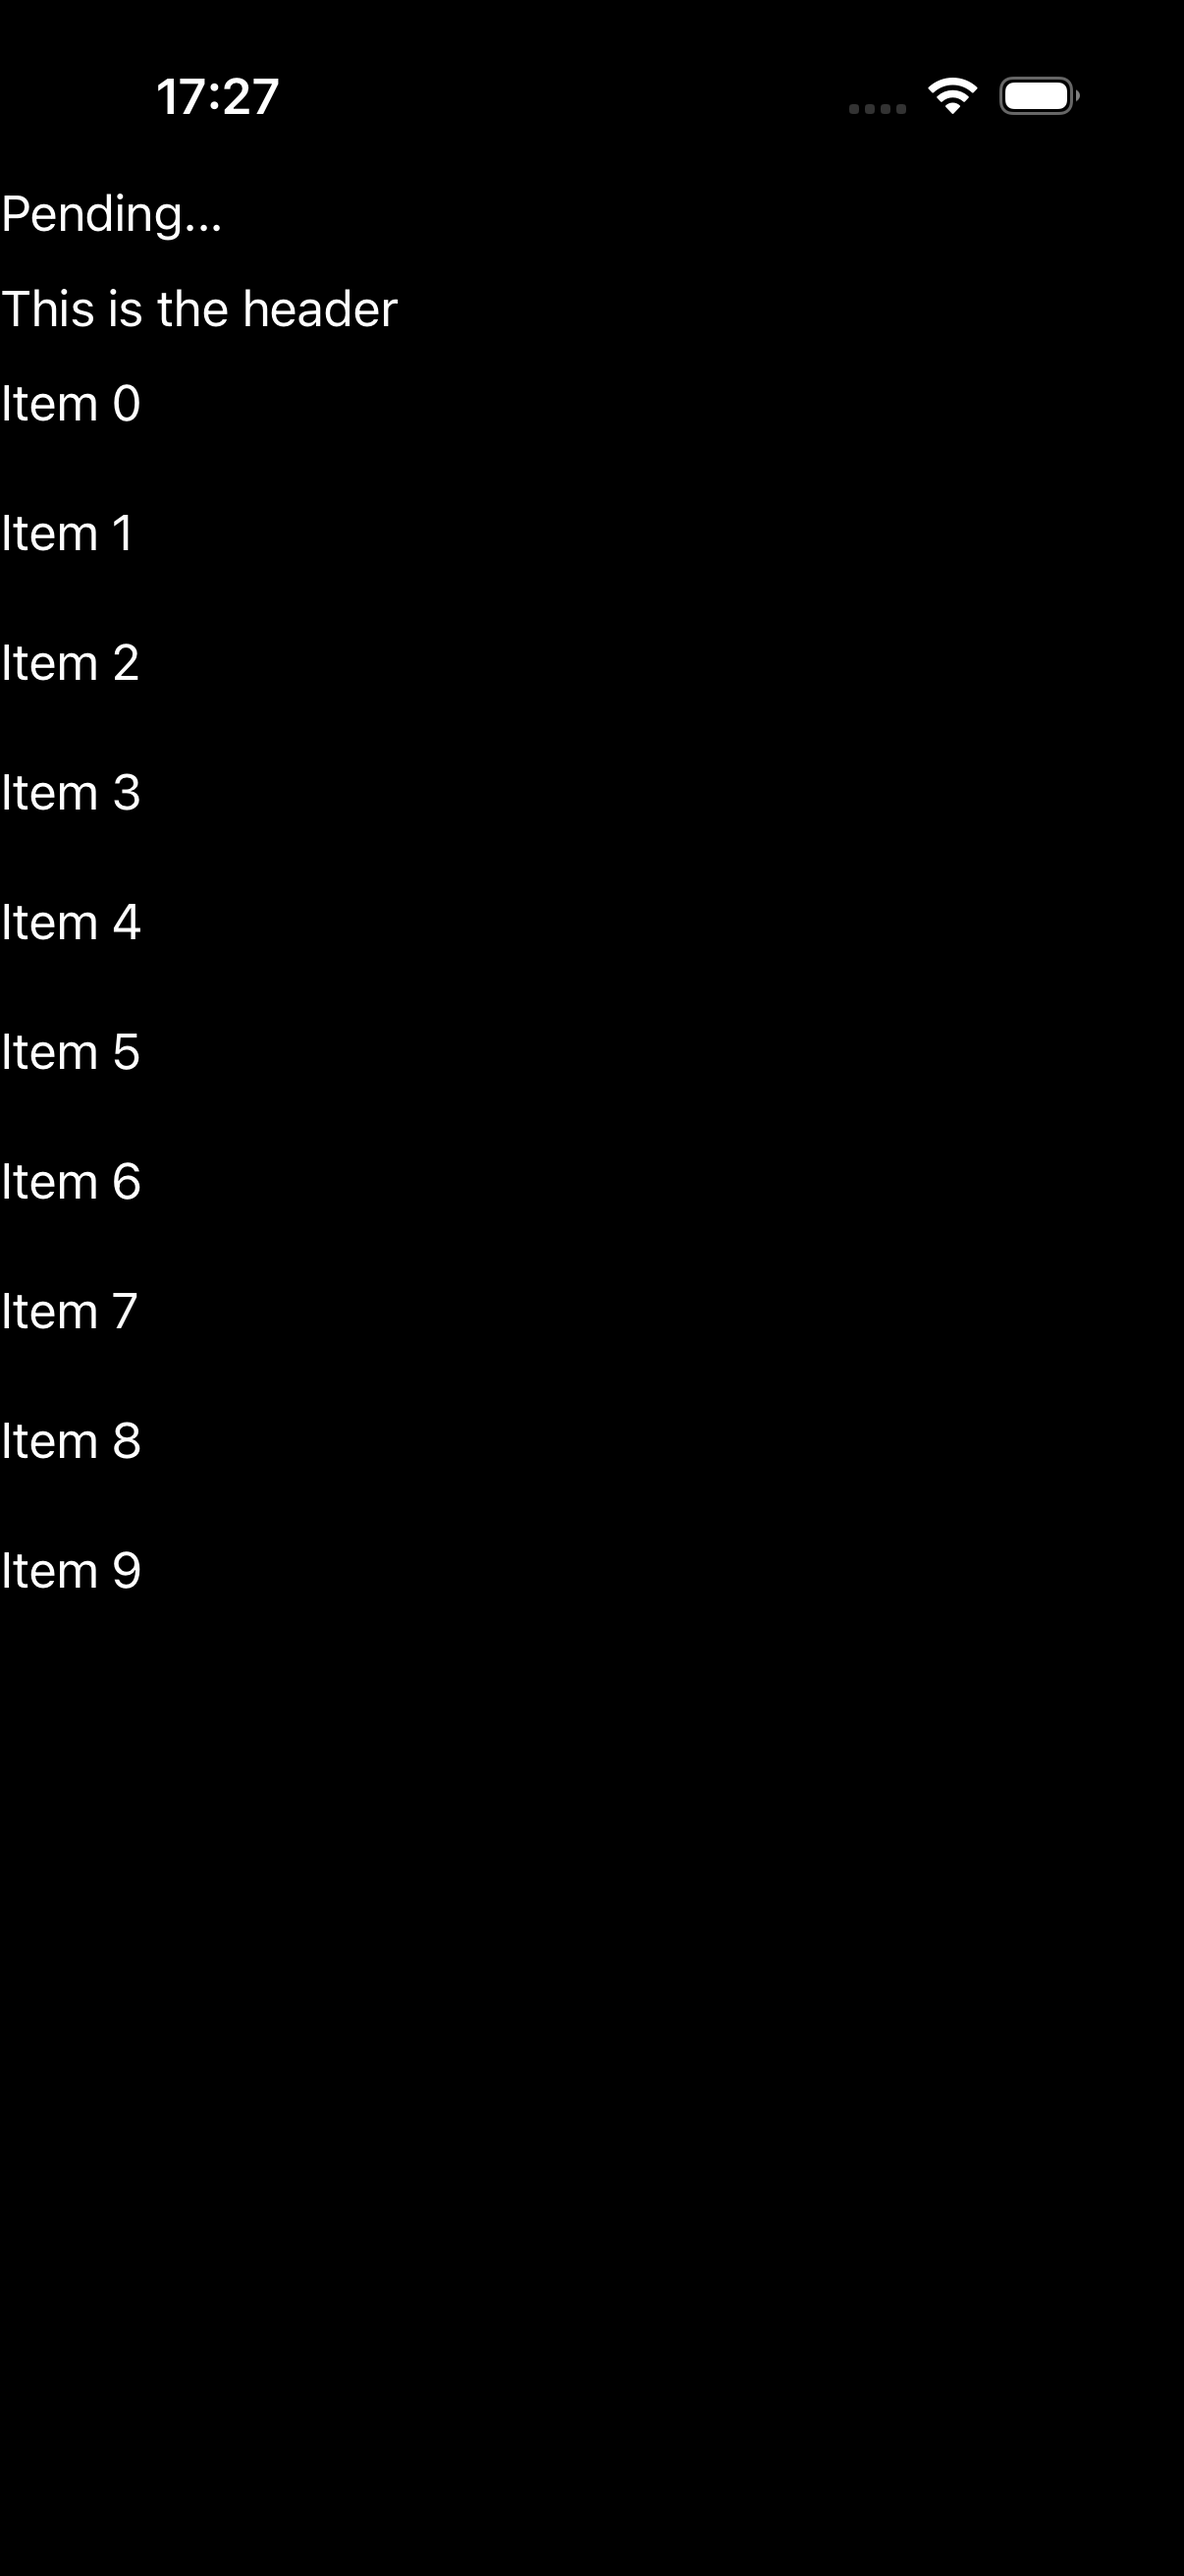
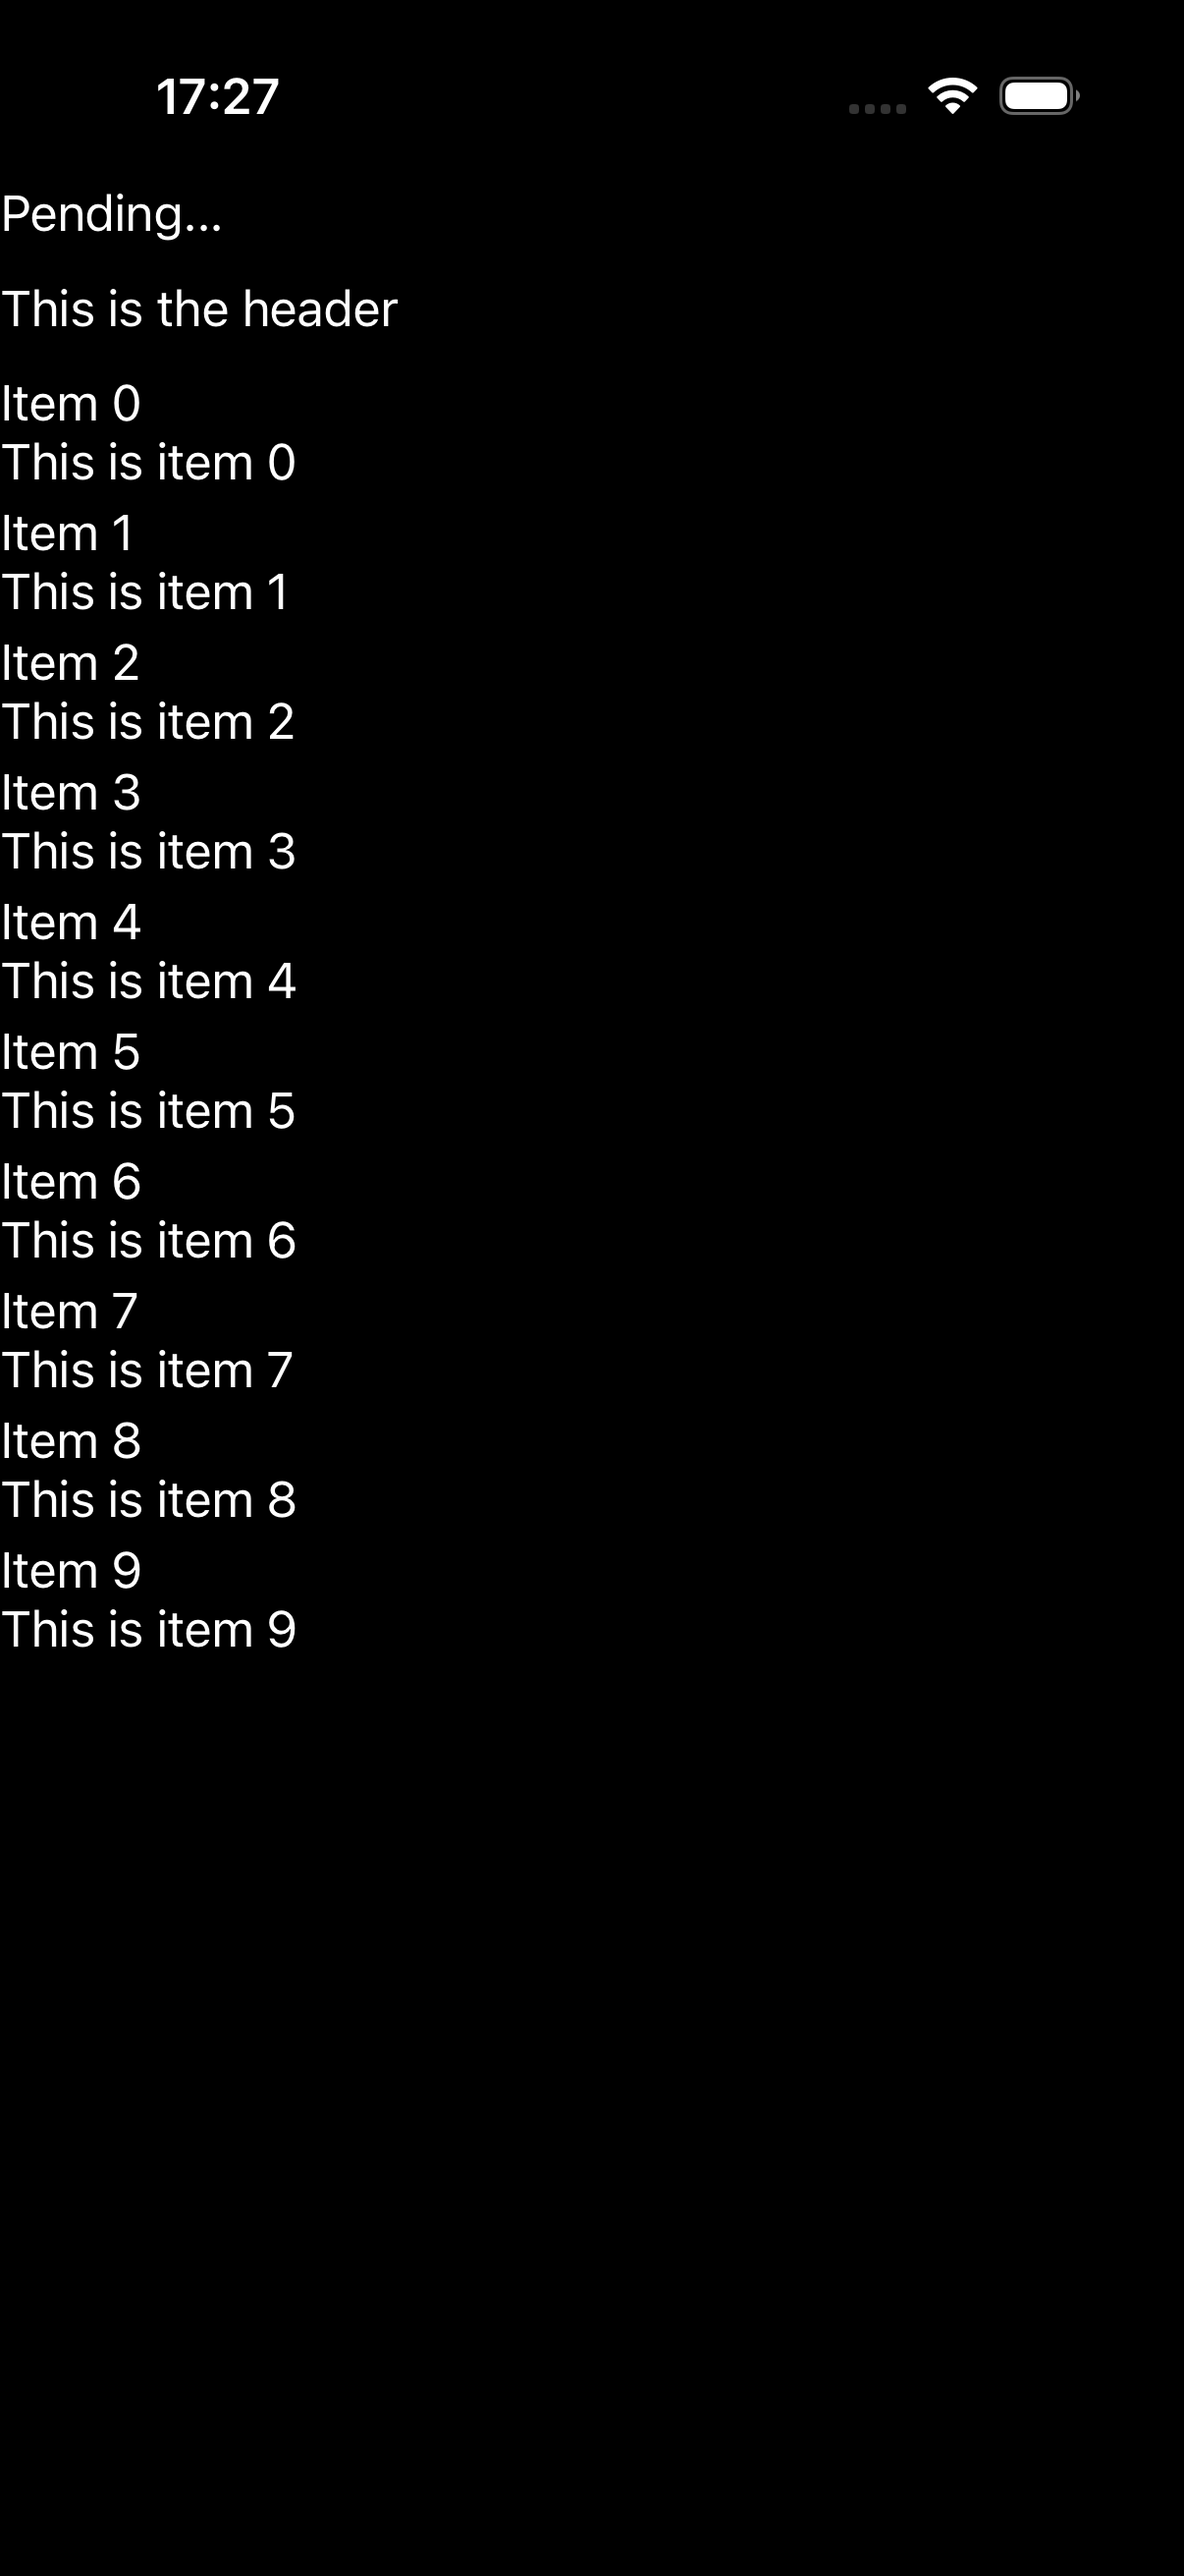
fix(samples,parity): selection_command_param two-line cells (Item N + 'This is item N')
The C# DataTemplate has two labels (Text + Description); the single-root struct cell now binds both on two
lines so the cell visually matches MAUI's title+detail layout (was title-only). Force-rebuilt + on-sim verified.
Tracker: selection_command_param diff->minor.

diff --git a/port/cpp/src/samples/pages/selection_command_param_page.hpp b/port/cpp/src/samples/pages/selection_command_param_page.hpp
@@ -77,11 +77,13 @@ namespace maui::samples
 
             result_.set_text("Pending..."); // Label x:Name="Result" Text="Pending..."
 
-            // The cell: Text + Description labels (the C# DataTemplate's two labels). The headless cell is
-            // a single Text label (the primary bound signal); Description rides on the model.
+            // The cell: the C# DataTemplate has two labels (Text + Description). The single-root struct cell
+            // renders both on two lines in one label ("Item N\nThis is item N") so the cell visually matches
+            // MAUI's two-line cell (title + detail).
             auto cell = maui::controls::data_template::of<maui::controls::label>();
-            cell->set_binding<std::string, item>(maui::controls::label::text_property(),
-                                                 [](const item& value) { return value.text; });
+            cell->set_binding<std::string, item>(maui::controls::label::text_property(), [](const item& value) {
+                return value.text + "\n" + value.description;
+            });
             list_.set_item_template(cell);
             list_.set_header(maui::controls::boxed_item::of(std::string{"This is the header"})); // Header=…
             list_.set_selection_mode(maui::controls::selection_mode::single);                    // Single

diff --git a/port/cpp/docs/comparison/README.md b/port/cpp/docs/comparison/README.md
@@ -2,7 +2,7 @@
 
 Theme-matched iOS comparison: each page rendered by **real .NET MAUI** vs the **C++ port**, on the same iPhone 17 simulator, compared **light-vs-light** and **dark-vs-dark**. Both stacks render native-default controls + the system font (the C# app's `dotnet new maui` default `Styles.xaml` + OpenSans are stripped; appearance forced via `MAUI_THEME` / `MAUI_APPEARANCE`). Goal: pixel-perfect parity, fixed example-by-example.
 
-**Progress: 48 / 172 🟢 matched** · 90 🟡 minor · 34 🔴 diff · 0 ⬜ pending
+**Progress: 48 / 172 🟢 matched** · 91 🟡 minor · 33 🔴 diff · 0 ⬜ pending
 
 **Flags: 7 ⚠ broken MAUI reference captures (re-shoot needed) · 14 🎬 motion/effect pages needing an animated GIF to judge.**
 
@@ -92,7 +92,7 @@ Rows are in **fix order** (top → bottom): foundational single controls first (
 | 76 | Multiple Bound Selection | 🟡<br>L:minor<br>D:minor | ![](csharp_ios_light/multiple_bound_selection.png) | ![](cpp_ios_light/multiple_bound_selection.png) | ![](csharp_ios_dark/multiple_bound_selection.png) | ![](cpp_ios_dark/multiple_bound_selection.png) |
 | 77 | Preselected Item | 🟡<br>L:minor<br>D:minor | ![](csharp_ios_light/preselected_item.png) | ![](cpp_ios_light/preselected_item.png) | ![](csharp_ios_dark/preselected_item.png) | ![](cpp_ios_dark/preselected_item.png) |
 | 78 | Preselected Items | 🟡<br>L:minor<br>D:minor | ![](csharp_ios_light/preselected_items.png) | ![](cpp_ios_light/preselected_items.png) | ![](csharp_ios_dark/preselected_items.png) | ![](cpp_ios_dark/preselected_items.png) |
-| 79 | Selection Command Param | 🔴<br>L:diff<br>D:diff | ![](csharp_ios_light/selection_command_param.png) | ![](cpp_ios_light/selection_command_param.png) | ![](csharp_ios_dark/selection_command_param.png) | ![](cpp_ios_dark/selection_command_param.png) |
+| 79 | Selection Command Param | 🟡<br>L:minor<br>D:minor | ![](csharp_ios_light/selection_command_param.png) | ![](cpp_ios_light/selection_command_param.png) | ![](csharp_ios_dark/selection_command_param.png) | ![](cpp_ios_dark/selection_command_param.png) |
 | 80 | Selection Synchronization | 🟡<br>L:minor<br>D:minor | ![](csharp_ios_light/selection_synchronization.png) | ![](cpp_ios_light/selection_synchronization.png) | ![](csharp_ios_dark/selection_synchronization.png) | ![](cpp_ios_dark/selection_synchronization.png) |
 | 81 | Filter Collection | 🟡<br>L:minor<br>D:minor | ![](csharp_ios_light/filter_collection.png) | ![](cpp_ios_light/filter_collection.png) | ![](csharp_ios_dark/filter_collection.png) | ![](cpp_ios_dark/filter_collection.png) |
 | 82 | Filter Selection | 🟡<br>L:minor<br>D:minor | ![](csharp_ios_light/filter_selection.png) | ![](cpp_ios_light/filter_selection.png) | ![](csharp_ios_dark/filter_selection.png) | ![](cpp_ios_dark/filter_selection.png) |
@@ -503,9 +503,9 @@ Concrete, per-theme notes for every page with a diff, a broken reference, or a m
 - **Light:** Matches: instruction text, 'Preselected: photo.jpg, 2, Fruits.jpg, 4, FlowerBuds.jpg, 5', header 'This is the header', and a 3-column grid with exactly photo.jpg/2, Fruits.jpg/4, FlowerBuds.jpg/5 highlighted. Cosmetic diffs only: header bold in MAUI vs regular in C++, and the light MAUI capture appears at a slightly smaller/zoomed-out scale, but item layout, order and the 3 highlighted cells are identical.
 - **Dark:** Same as light: identical preselection of the 3 items in the grid, same header and instruction text. Only the header weight and minor scale differ. Selection correct.
 
-### 79. Selection Command Param — 🔴 (L:diff / D:diff)
-- **Light:** C++ is missing the second line of every cell. MAUI renders each cell as two lines: a title 'Item N' followed by a detail line 'This is item N' (e.g. 'Item 0' then 'This is item 0', for N=0..9). C++ renders ONLY the title 'Item N' on each cell — the 'This is item N' detail line is absent from all 10 cells. Header 'This is the header' bold in MAUI vs regular in C++ as well.
-- **Dark:** Same defect: MAUI shows two-line cells (Item N + 'This is item N') while C++ shows only the single 'Item N' line per cell; the 'This is item N' detail text is missing from every cell. Header weight also differs.
+### 79. Selection Command Param — 🟡 (L:minor / D:minor)
+- **Light:** FIXED: each cell now renders two lines ('Item N' + 'This is item N') matching MAUI's title+detail DataTemplate (was title-only — the single-root struct cell now binds text+description on two lines). Header 'This is the header' + the Pending/Success status present.
+- **Dark:** Same as light; two-line cells in dark.
 
 ### 80. Selection Synchronization — 🟡 (L:minor / D:minor)
 - **Light:** Matches: instruction paragraph, two CollectionView sections ('Set ItemsSource then SelectedItems...' and 'Set SelectedItems then ItemsSource...'), each with 'Selected: Item 3, Item 2' and Item 1-4 where Item 2 and Item 3 are correctly highlighted. Cosmetic diff: C++ uses larger inter-item spacing, so it fits both full sections on screen while MAUI shows the first section's list plus only the start of the second section. Selection state correct in both.
